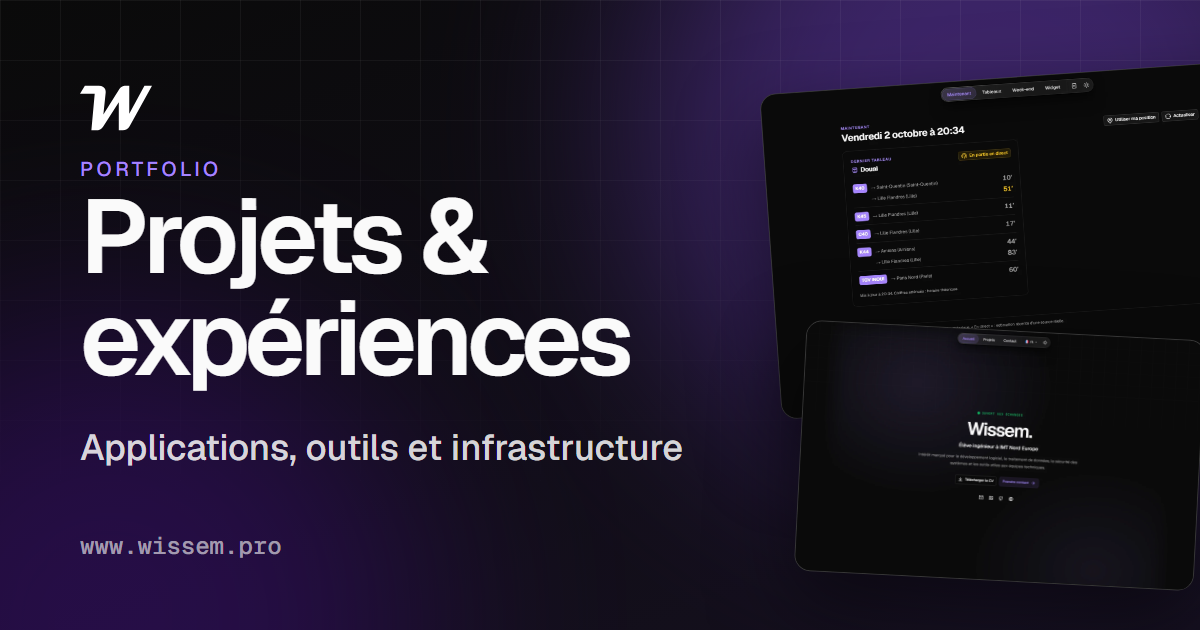
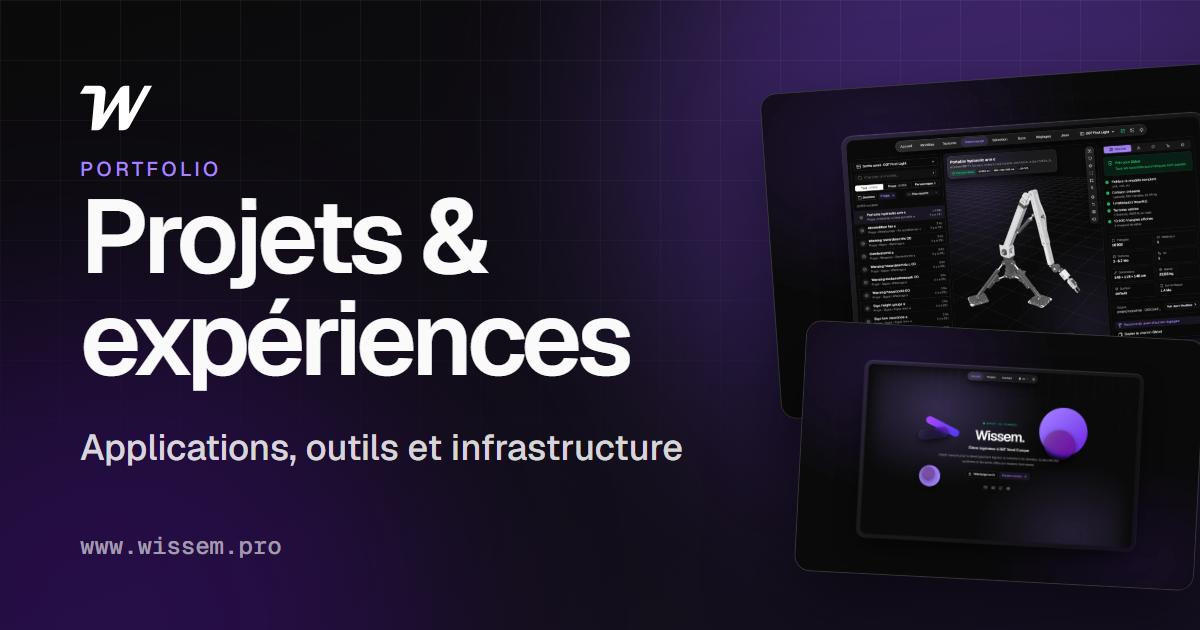
feat: Omni in the projects, Move removed (#45)
Adds Omni to the projects and removes Move; sharing images show Omni.

diff --git a/scripts/covers.ts b/scripts/covers.ts
@@ -1,7 +1,8 @@
 /**
  * Builds every project cover from the shared template (scripts/cover-template.ts).
  * Products with an interface use their capture from scripts/captures/ (refreshed by
- * `bun scripts/screenshots.ts`); the others get an icon tile, with no internal content.
+ * `bun scripts/screenshots.ts`, or taken from the product's README when it has no site);
+ * the others get an icon tile, with no internal content.
  *
  * Usage: bun scripts/covers.ts [id...]
  */
@@ -21,7 +22,7 @@ const covers: Array<{ id: string; frame: CoverFrame }> = [
     id: 'dgfip-audit-tool',
     frame: { kind: 'icon', icon: 'database-2-line', keywords: ['Python', 'SQLite', 'DuckDB'] },
   },
-  { id: 'move', frame: { kind: 'phone', capture: new URL('move.png', CAPTURES) } },
+  { id: 'omni', frame: { kind: 'window', capture: new URL('omni.png', CAPTURES) } },
   {
     id: 'infrastructure',
     frame: { kind: 'icon', icon: 'server-line', keywords: ['CI/CD', 'Docker', 'Dokploy'] },

diff --git a/shared/content/fr.ts b/shared/content/fr.ts
@@ -306,10 +306,10 @@ export const fr = {
       description:
         'Stage à Paris : modernisation et restructuration d’une application Python d’assistance à l’audit, optimisation du traitement de gros volumes de données avec SQLite et DuckDB, et renforcement de la traçabilité.',
     },
-    move: {
-      title: 'Move',
+    omni: {
+      title: 'Omni',
       description:
-        'Application web qui réunit les bus Évéole et les TER Hauts-de-France, avec favoris synchronisés grâce à Wissem SSO et widgets pour iPhone et Mac.',
+        'Application Windows qui convertit localement les fichiers d’un jeu que l’on possède en contenu Garry’s Mod (props, modèles de joueur, textures) et en modèles glTF, avec une visionneuse qui vérifie chaque modèle. Cœur en Rust, orchestration en Python, interface Nuxt.',
     },
     infrastructure: {
       title: 'Infrastructure auto-hébergée',

diff --git a/shared/content/en.ts b/shared/content/en.ts
@@ -309,10 +309,10 @@ export const en = {
       description:
         'Internship in Paris: modernization and restructuring of a Python audit support application, optimization of high-volume data processing with SQLite and DuckDB, and stronger traceability.',
     },
-    move: {
-      title: 'Move',
+    omni: {
+      title: 'Omni',
       description:
-        'Web app that brings Évéole buses and TER Hauts-de-France journeys together, with favorites synced through Wissem SSO and widgets for iPhone and Mac.',
+        'Windows app that converts, locally, the files of a game you own into Garry’s Mod content (props, player models, textures) and glTF models, with a viewer that checks each model. Rust core, Python orchestration, Nuxt interface.',
     },
     infrastructure: {
       title: 'Self-hosted infrastructure',

diff --git a/shared/content/projects.ts b/shared/content/projects.ts
@@ -19,6 +19,7 @@ export const TECHNOLOGIES = [
   'Nuxt UI',
   'PostgreSQL',
   'Python',
+  'Rust',
   'SDL2',
   'SQLite',
   'SwiftUI',
@@ -73,13 +74,13 @@ export const projectRecords = [
     featured: true,
   },
   {
-    id: 'move',
-    category: 'product',
-    status: 'live',
-    period: { start: '2026-09' },
-    stack: ['Nuxt', 'TypeScript', 'SwiftUI', 'PostgreSQL'],
-    links: { site: 'https://move.wissem.pro' },
-    image: '/images/projects/move.webp',
+    id: 'omni',
+    category: 'personal',
+    status: 'ongoing',
+    period: { start: '2026-10' },
+    stack: ['Rust', 'Python', 'Nuxt', 'Nuxt UI'],
+    links: { code: 'https://github.com/WissemBad/omni' },
+    image: '/images/projects/omni.webp',
     featured: true,
   },
   {

diff --git a/scripts/screenshots.ts b/scripts/screenshots.ts
@@ -27,19 +27,6 @@ interface Target {
 }
 
 const targets: Target[] = [
-  {
-    id: 'move',
-    url: 'https://move.wissem.pro',
-    mobile: true,
-    // Sync notice shown to signed-out visitors.
-    hide: ['main > div > p.text-warning'],
-    // The empty home only offers examples: open one to show a real board.
-    prepare: async (page) => {
-      await page.getByRole('button', { name: /Gare de Douai/ }).click()
-      await page.getByText(/Mis à jour à/).waitFor()
-    },
-    settle: 1500,
-  },
   { id: 'parcourtime', url: 'https://parcourtime.wissem.pro', settle: 1200 },
   { id: 'portfolio', url: process.env.WSM_HOME_URL || 'https://www.wissem.pro', settle: 1500 },
 ]

diff --git a/scripts/og.ts b/scripts/og.ts
@@ -96,7 +96,7 @@ function template(locale: keyof typeof contentByLocale) {
   <div class="glow glow--a"></div>
   <div class="glow glow--b"></div>
   <div class="grid"></div>
-  <div class="shot shot--a"><img src="${shot('move')}" alt=""></div>
+  <div class="shot shot--a"><img src="${shot('omni')}" alt=""></div>
   <div class="shot shot--b"><img src="${shot('portfolio')}" alt=""></div>
   <img class="logo" src="${logo}" alt="">
   <p class="kicker">${copy.kicker}</p>

diff --git a/CHANGELOG.md b/CHANGELOG.md
@@ -4,6 +4,14 @@ All notable changes to this project are documented here. The format follows [Kee
 
 ## [Unreleased]
 
+### Added
+
+- Omni in the projects: the Windows app that converts the files of a game you own into Garry's Mod content and glTF models, with its viewer as cover.
+
+### Removed
+
+- Move is no longer listed in the projects; the sharing images show Omni in its place.
+
 ## [1.5.2] - 2026-10-22
 
 ### Changed
